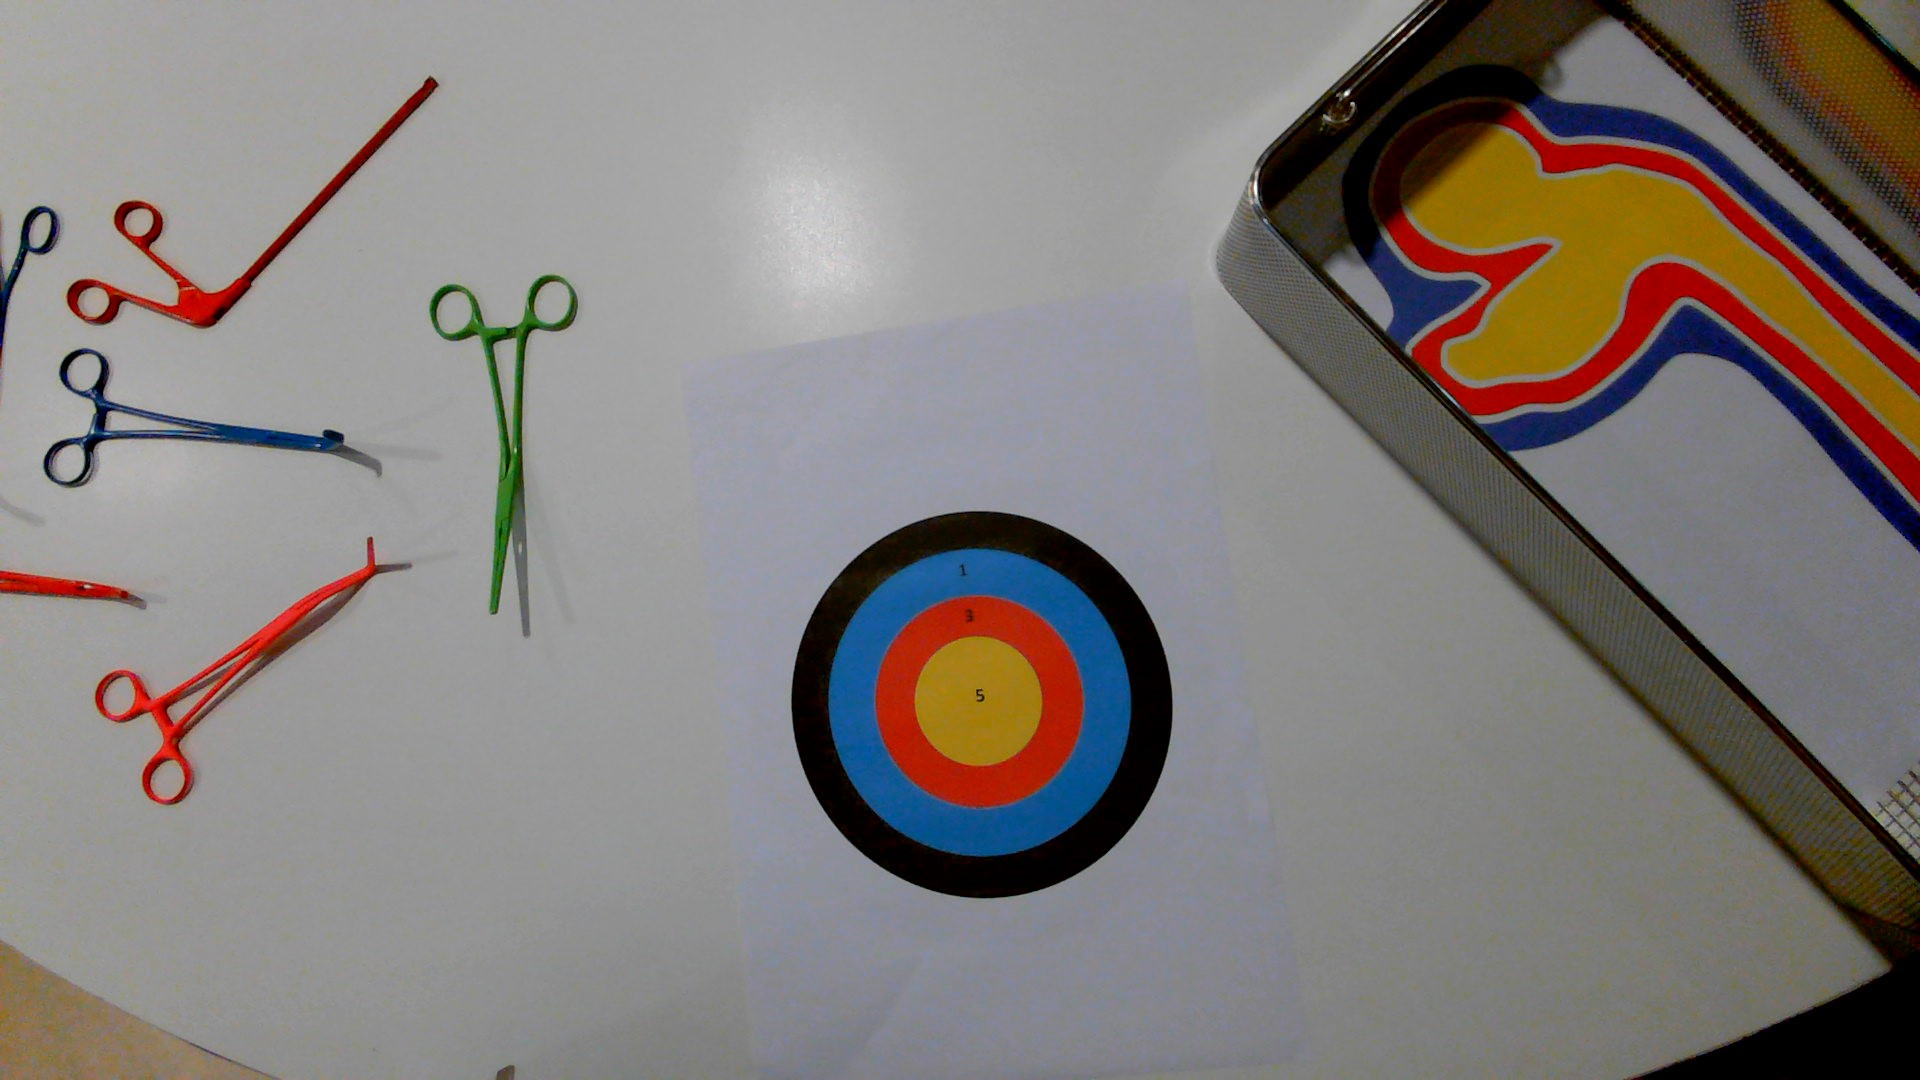
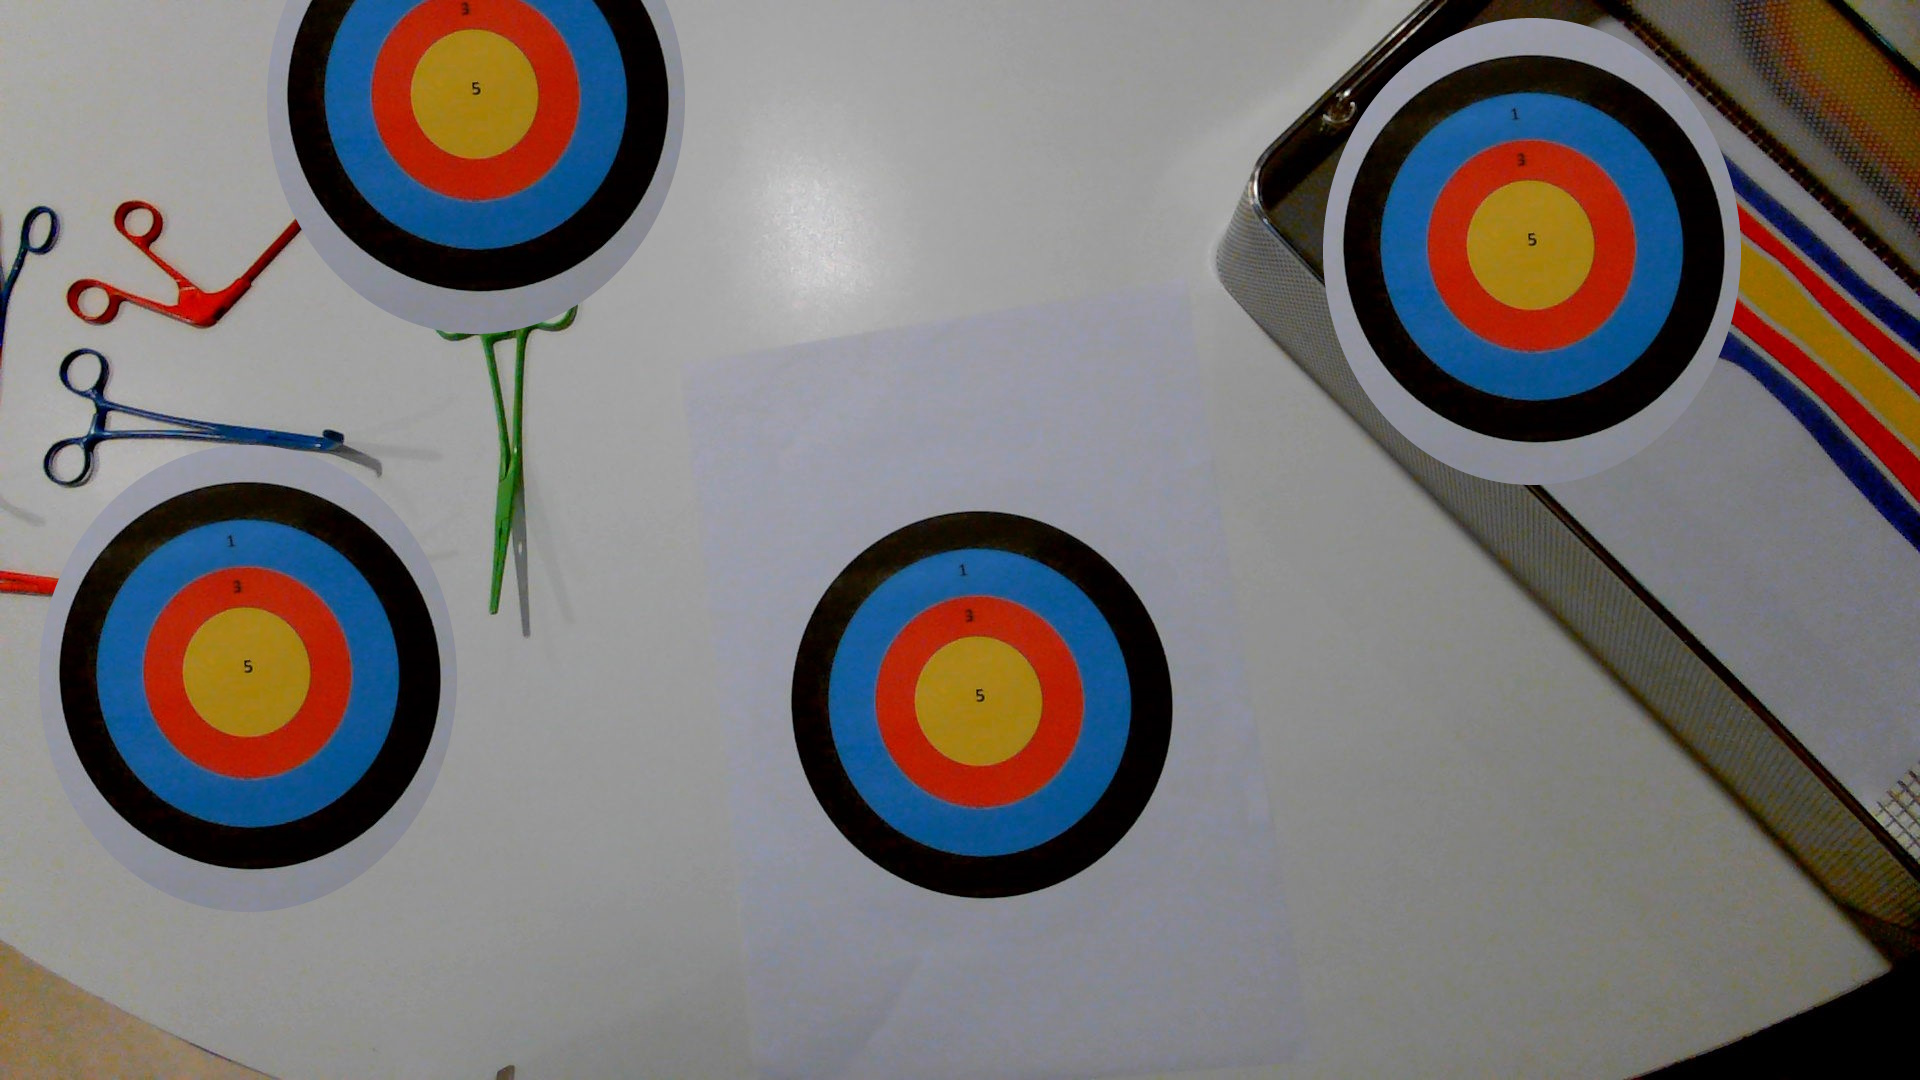
finding bulls-eye

Changed region(s): [[0.6875, 0.0, 0.9062, 0.4583], [0.0312, 0.4278, 0.25, 0.825], [0.125, 0.0, 0.375, 0.3056]]

diff --git a/Python/Robotica-Vision/FindTargets.py b/Python/Robotica-Vision/FindTargets.py
@@ -1,33 +1,62 @@
-import cv2 
-import numpy as np 
+import cv2 as cv
+import numpy as np
+from ColorFiltering import Color, primary_colors, colors
 
-# Read image. 
-img = cv2.imread('Images/bulls-eye.jpg', cv2.IMREAD_COLOR)
 
-# Convert to grayscale.
-gray = cv2.cvtColor(img, cv2.COLOR_BGR2GRAY)
+# Functie om te controleren of een contour ellipsvormig is
+def is_ellipse(contour, min_aspect_ratio=0.5):
+    if len(contour) < 5:
+        return False, (0, 0)
+    ellipse = cv.fitEllipse(contour)
+    (x, y), (MA, ma), angle = ellipse
+    aspect_ratio = min(MA, ma) / max(MA, ma)
+    return aspect_ratio >= min_aspect_ratio, (int(x), int(y))
 
-# Blur using 3 * 3 kernel.
-gray_blurred = cv2.blur(gray, (3, 3))
+def find_bulls_eyes(inv_contours):
+    result = []
+    for contour in inv_contours:
+        is_ellipse_flag, center = is_ellipse(contour)
+        if is_ellipse_flag:
+            ellipse = cv.fitEllipse(contour)
+            cv.ellipse(img, ellipse, (0, 255, 0), 2)
 
-# Apply Hough transform on the blurred image.
-detected_circles = cv2.HoughCircles(gray_blurred,
-				cv2.HOUGH_GRADIENT, 1, 20, param1 = 50,
-			param2 = 30, minRadius = 100, maxRadius = 500)
+            # Maak een masker voor de cirkel
+            mask = np.zeros(gray_img.shape, dtype=np.uint8)
+            cv.circle(mask, center, 5, (255, 255, 255), -1)  # Aangenomen straal van 10 pixels
 
-# Draw circles that are detected.
-if detected_circles is not None:
+            # Bereken het gemiddelde HSV in de cirkel
+            hsv_img = cv.cvtColor(img, cv.COLOR_BGR2HSV)
+            mean = cv.mean(hsv_img, mask=mask)
+            print(mean)
+            bulls_eye = Color('bulls_eye', np.array([20, 0, 0]), np.array([25, 255, 255]))
+            if bulls_eye.is_color(mean[0], mean[1], mean[2]):
+                cv.circle(img, center, 5, (0, 0, 0), -1)
+                result.append(center)
+    return result
 
-	# Convert the circle parameters a, b and r to integers.
-	detected_circles = np.uint16(np.around(detected_circles))
+# Lees de afbeelding in
+img = cv.imread('Images/bulls-eye.jpg')
+img = cv.resize(img, (1080, 720))
 
-	for pt in detected_circles[0, :]:
-		a, b, r = pt[0], pt[1], pt[2]
+# Converteer de afbeelding naar grijswaarden
+gray_img = cv.cvtColor(img, cv.COLOR_BGR2GRAY)
 
-		# Draw the circumference of the circle.
-		cv2.circle(img, (a, b), r, (0, 255, 0), 2)
+# Pas een Gaussiaanse vervaging toe
+blurred_img = cv.GaussianBlur(gray_img, (9, 9), 2)
 
-		# Draw a small circle (of radius 1) to show the center.
-		cv2.circle(img, (a, b), 1, (0, 0, 255), 3)
-cv2.imshow("Detected Circle", img)
-cv2.waitKey(0)
+# Voer een drempelbewerking uit
+ret, thresh_img = cv.threshold(blurred_img, 127, 255, cv.THRESH_BINARY)
+
+# Inverse van de binaire afbeelding
+inv_thresh_img = cv.bitwise_not(thresh_img)
+
+# Detecteer contouren in de inverse afbeelding
+inv_contours, _ = cv.findContours(inv_thresh_img, cv.RETR_EXTERNAL, cv.CHAIN_APPROX_SIMPLE)
+
+print('Bull_eyes locations:'+ find_bulls_eyes(inv_contours).__str__())
+
+
+# Toon de resultaten
+cv.imshow('Origineel met Ellipsen', img)
+cv.waitKey(0)
+cv.destroyAllWindows()

diff --git a/Python/Robotica-Vision/Example code/Test.py b/Python/Robotica-Vision/Example code/Test.py
@@ -1,0 +1,70 @@
+import cv2 as cv
+import numpy as np
+
+# Lees de afbeelding in
+img = cv.imread('../Images/rechte-tang.jpeg')
+img = cv.resize(img,(720,1080))
+
+# Converteer de afbeelding naar HSV-kleurruimte
+hsv_img = cv.cvtColor(img, cv.COLOR_BGR2HSV)
+
+# Definieer kleurintervallen voor geel, rood en blauw in HSV
+yellow_lower = np.array([20, 100, 100])
+yellow_upper = np.array([30, 255, 255])
+
+red_lower1 = np.array([0, 100, 100])
+red_upper1 = np.array([10, 255, 255])
+red_lower2 = np.array([160, 100, 100])
+red_upper2 = np.array([180, 255, 255])
+
+blue_lower = np.array([90, 100, 100])
+blue_upper = np.array([120, 255, 255])
+
+# Maak maskers voor elke kleur
+yellow_mask = cv.inRange(hsv_img, yellow_lower, yellow_upper)
+red_mask1 = cv.inRange(hsv_img, red_lower1, red_upper1)
+red_mask2 = cv.inRange(hsv_img, red_lower2, red_upper2)
+red_mask = cv.bitwise_or(red_mask1, red_mask2)
+blue_mask = cv.inRange(hsv_img, blue_lower, blue_upper)
+
+# Voer morfologische operaties uit om de maskers te verbeteren
+kernel = np.ones((5, 5), np.uint8)
+yellow_mask = cv.morphologyEx(yellow_mask, cv.MORPH_CLOSE, kernel)
+red_mask = cv.morphologyEx(red_mask, cv.MORPH_CLOSE, kernel)
+blue_mask = cv.morphologyEx(blue_mask, cv.MORPH_CLOSE, kernel)
+
+# Vind contouren in elk masker
+contours_yellow, _ = cv.findContours(yellow_mask, cv.RETR_EXTERNAL, cv.CHAIN_APPROX_SIMPLE)
+contours_red, _ = cv.findContours(red_mask, cv.RETR_EXTERNAL, cv.CHAIN_APPROX_SIMPLE)
+contours_blue, _ = cv.findContours(blue_mask, cv.RETR_EXTERNAL, cv.CHAIN_APPROX_SIMPLE)
+
+# Teken contouren op de originele afbeelding
+cv.drawContours(img, contours_yellow, -1, (0, 255, 255), 2)  # Geel
+cv.drawContours(img, contours_red, -1, (0, 0, 255), 2)      # Rood
+cv.drawContours(img, contours_blue, -1, (255, 0, 0), 2)     # Blauw
+
+# Plaats een zwarte stip op het zwaartepunt van het gele vlak
+for contour in contours_yellow:
+    # Bereken het zwaartepunt van het gele vlak
+    M = cv.moments(contour)
+    if M["m00"] != 0:
+        cX = int(M["m10"] / M["m00"])
+        cY = int(M["m01"] / M["m00"])
+        # Teken een zwarte stip op het zwaartepunt van het gele vlak
+        cv.circle(img, (cX, cY), 5, (0, 0, 0), -1)
+        # Bereken de begrenzende doos van het gele vlak
+        x, y, w, h = cv.boundingRect(contour)
+        # Bereken het zwaartepunt van de begrenzende doos
+        box_cX = x + w // 2
+        box_cY = y + h // 2
+        # Pas de x-coördinaat van het middenpunt van de begrenzende doos aan
+        box_cX = cX
+        # Teken een zwarte stip op het aangepaste middenpunt van de begrenzende doos
+        cv.circle(img, (box_cX, box_cY), 5, (0, 0, 0), -1)
+        # Teken de begrenzende doos op de originele afbeelding
+        cv.rectangle(img, (x, y), (x + w, y + h), (0, 255, 0), 2)
+
+# Toon de resultaten
+cv.imshow('Tangvormig Object', img)
+cv.waitKey(0)
+cv.destroyAllWindows()

diff --git a/Python/Robotica-Vision/ColorFiltering.py b/Python/Robotica-Vision/ColorFiltering.py
@@ -36,14 +36,13 @@ primary_colors = [
     'red', 'green', 'blue', 'pink'
 ]
 
-# Load and process frame
-frame = cv.imread('Images/blauwe-tang.jpeg')
-frame = cv.resize(frame, (640, 640))
-hsv = cv.cvtColor(frame, cv.COLOR_BGR2HSV)
-
 
 # Function to display each color mask in a separate window
 def display_individual_colors():
+    # Load and process frame
+    frame = cv.imread('Images/blauwe-tang.jpeg')
+    frame = cv.resize(frame, (640, 640))
+    hsv = cv.cvtColor(frame, cv.COLOR_BGR2HSV)
     for color_name in primary_colors:
         if color_name in colors:
             color = colors[color_name]
@@ -58,8 +57,11 @@ def display_individual_colors():
 
 # Function to display all colors in one image with outlines and labels
 def display_all_colors():
+    # Load and process frame
+    frame = cv.imread('Images/blauwe-tang.jpeg')
+    frame = cv.resize(frame, (640, 640))
+    hsv = cv.cvtColor(frame, cv.COLOR_BGR2HSV)
     combined_mask = None
-    result_frame = frame.copy()
 
     for color_name in primary_colors:
         if color_name in colors:
@@ -83,10 +85,10 @@ def display_all_colors():
                         cY = int(M["m01"] / M["m00"])
                     else:
                         cX, cY = 0, 0
-                    cv.putText(result_frame, color.name, (cX - 20, cY),
+                    cv.putText(frame, color.name, (cX - 20, cY),
                                cv.FONT_HERSHEY_SIMPLEX, 0.7, (0, 0, 0), 2,
                                cv.LINE_AA)
-            cv.drawContours(result_frame, result, -1, (0, 0, 0), 2)
+            cv.drawContours(frame, result, -1, (0, 0, 0), 2)
             print(color_name + ':' + str(len(result)))
 
     if combined_mask is not None:

diff --git a/Python/Robotica-Vision/Example code/Test2.py b/Python/Robotica-Vision/Example code/Test2.py
@@ -1,0 +1,46 @@
+import cv2 as cv
+import numpy as np
+
+# Lees de afbeelding in
+img = cv.imread('../Images/rechte-tang.jpeg')
+img = cv.resize(img,(720,1080))
+# Converteer de afbeelding naar HSV-kleurruimte
+hsv_img = cv.cvtColor(img, cv.COLOR_BGR2HSV)
+
+# Definieer kleurintervallen voor geel, rood en blauw in HSV
+yellow_lower = np.array([20, 100, 100])
+yellow_upper = np.array([30, 255, 255])
+
+# Maak een masker voor geel
+yellow_mask = cv.inRange(hsv_img, yellow_lower, yellow_upper)
+
+# Voer morfologische operaties uit om de masker te verbeteren
+kernel = np.ones((5, 5), np.uint8)
+yellow_mask = cv.morphologyEx(yellow_mask, cv.MORPH_CLOSE, kernel)
+
+# Vind contouren in het gele masker
+contours_yellow, _ = cv.findContours(yellow_mask, cv.RETR_EXTERNAL, cv.CHAIN_APPROX_SIMPLE)
+
+# Zoek de contour met het grootste oppervlak (het breedste deel van de tang)
+largest_contour = max(contours_yellow, key=cv.contourArea)
+
+# Bepaal het convex hull van de grootste contour
+hull = cv.convexHull(largest_contour)
+
+# Bepaal het uiterste punt van het handvat en het uiterste punt van de tang
+extreme_left = tuple(hull[hull[:, :, 0].argmin()][0])
+extreme_right = tuple(hull[hull[:, :, 0].argmax()][0])
+extreme_top = tuple(hull[hull[:, :, 1].argmin()][0])
+extreme_bottom = tuple(hull[hull[:, :, 1].argmax()][0])
+
+
+# Teken een punt op het uiterste punt van het handvat en het uiterste punt van de tang
+cv.circle(img, extreme_left, 5, (0, 0, 0), -1)
+cv.circle(img, extreme_right, 5, (0, 0, 0), -1)
+cv.circle(img, extreme_top, 5, (0, 0, 0), -1)
+cv.circle(img, extreme_bottom, 5, (0, 0, 0), -1)
+
+# Toon de resultaten
+cv.imshow('Tangvormig Object', img)
+cv.waitKey(0)
+cv.destroyAllWindows()

diff --git a/Python/Robotica-Vision/FindInstruments.py b/Python/Robotica-Vision/FindInstruments.py
@@ -5,6 +5,7 @@ from ColorFiltering import Color, primary_colors, colors
 frame = cv.imread('Images/twee_scharen.png')
 frame = cv.resize(frame, (640, 640))
 imgray = cv.cvtColor(frame, cv.COLOR_BGR2GRAY)
+imgray = cv.medianBlur(imgray,5)
 hsv = cv.cvtColor(frame, cv.COLOR_BGR2HSV)
 
 
@@ -57,7 +58,7 @@ def get_instrument_colors(instruments):
                     break
 
 
-_, thresh = cv.threshold(imgray, 80, 100, cv.THRESH_BINARY)
+_, thresh = cv.threshold(imgray, 127, 255, cv.THRESH_BINARY)
 contours, hierarchy = cv.findContours(thresh, cv.RETR_TREE, cv.CHAIN_APPROX_SIMPLE)
 hierarchy = hierarchy[0]
 instruments = []
